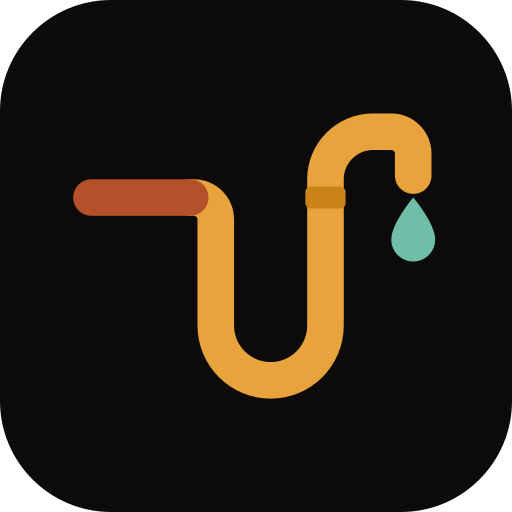
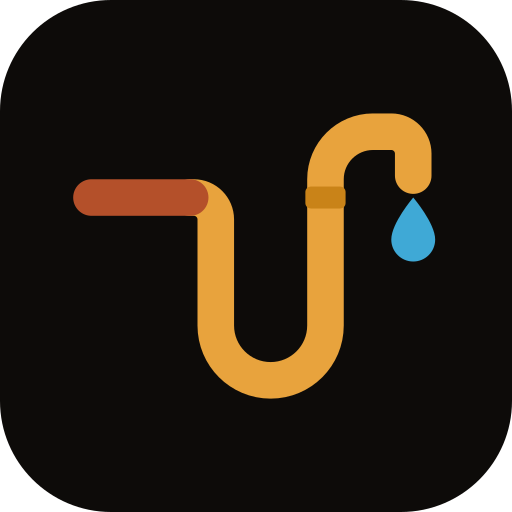
Switch the water colour to aquifer blue; remove the Why us photo
Mint teal (#6FBFA8) becomes aquifer blue (#3FA9D6) everywhere water
appears: logo drop and pipe water (nav, footer, favicon, app icons,
share image), 3D water shader, seepage, air-lift light, aquifer glow,
highlighted words and accents. Earth colours unchanged.

The rig photo in Why us is removed (it repeats in Projects).

Claude-Session: https://claude.ai/code/session_01LjB3ks2CfJEXKBvPFmPoN3

Changed region(s): [[0.75, 0.375, 0.875, 0.5312]]

diff --git a/index.html b/index.html
@@ -28,7 +28,7 @@
 :root{
   --basalt:#0D0B09; --umber:#171310; --kiln:#241C15; --strata:#3A2E22;
   --bone:#F2EDE4; --dust:#A79B8A; --amber:#E8A33D; --murram:#B4502A;
-  --teal:#6FBFA8; --strike:#EAF3EC;
+  --teal:#3FA9D6; --strike:#EAF3EC;
   --font-d:'Oswald','Arial Narrow',sans-serif;
   --font-b:'Inter',system-ui,-apple-system,'Segoe UI',sans-serif;
   --ease:cubic-bezier(0.2,0.7,0.2,1);
@@ -47,7 +47,7 @@ a{color:inherit}
 .wash.w1{background:linear-gradient(180deg,rgba(232,163,61,.20),rgba(232,163,61,0) 70%)}
 .wash.w2{background:linear-gradient(180deg,rgba(180,80,42,.16) 0%,rgba(180,80,42,0) 75%)}
 .wash.w3{background:linear-gradient(180deg,rgba(36,28,21,.55),rgba(13,11,9,0) 80%)}
-.wash.w4{background:linear-gradient(180deg,rgba(111,191,168,.14),rgba(111,191,168,0) 70%)}
+.wash.w4{background:linear-gradient(180deg,rgba(63,169,214,.14),rgba(63,169,214,0) 70%)}
 .page{position:relative;z-index:1;overflow-x:clip}
 
 /* Depth rail — desktop only */
@@ -196,7 +196,7 @@ html.reduced-motion *,html.reduced-motion *::before,html.reduced-motion *::after
 .process-step.strike .n{color:var(--teal)}
 .process-step h3{font-family:var(--font-d);font-weight:600;text-transform:uppercase;letter-spacing:.06em;font-size:1.15rem;color:var(--bone);margin-bottom:.55rem}
 .process-step .depth-tag{display:inline-block;font-family:ui-monospace,Menlo,monospace;font-size:.68rem;letter-spacing:.22em;color:var(--murram);border:1px solid var(--strata);border-radius:4px;padding:.2rem .6rem;margin-bottom:.7rem}
-.process-step.strike .depth-tag{color:var(--teal);border-color:rgba(111,191,168,.4)}
+.process-step.strike .depth-tag{color:var(--teal);border-color:rgba(63,169,214,.4)}
 .process-step p{color:var(--dust);font-size:.92rem;line-height:1.7}
 @media(min-width:900px){.process-step p{max-width:15em;margin:0 auto}}
 
@@ -255,12 +255,12 @@ html.reduced-motion *,html.reduced-motion *::before,html.reduced-motion *::after
 .form-group select option{background:var(--umber);color:var(--bone)}
 .form-group textarea{resize:vertical;min-height:110px}
 .form-group input:focus,.form-group select:focus,.form-group textarea:focus{outline:none;border-color:var(--amber);box-shadow:0 0 0 3px rgba(232,163,61,.22)}
-.btn-success{background:var(--teal)!important;color:#06231b!important;box-shadow:0 6px 26px rgba(111,191,168,.35)!important}
+.btn-success{background:var(--teal)!important;color:#06231b!important;box-shadow:0 6px 26px rgba(63,169,214,.35)!important}
 .form-note{margin-top:1rem;font-size:.85rem;color:var(--teal);min-height:1.4em}
 
 /* ============ Final CTA + footer ============ */
 .cta-band{text-align:center;overflow:hidden}
-.cta-band .glow{position:absolute;left:50%;top:50%;width:560px;height:560px;transform:translate(-50%,-50%);background:radial-gradient(circle,rgba(111,191,168,.16),transparent 65%);pointer-events:none;z-index:-1}
+.cta-band .glow{position:absolute;left:50%;top:50%;width:560px;height:560px;transform:translate(-50%,-50%);background:radial-gradient(circle,rgba(63,169,214,.16),transparent 65%);pointer-events:none;z-index:-1}
 .cta-band h2{font-family:var(--font-d);font-weight:700;text-transform:uppercase;font-size:clamp(2rem,6.5vw,3.4rem);color:var(--strike);line-height:1.1;max-width:14em;margin:0 auto}
 .cta-band p{color:var(--dust);margin:1.1rem auto 2rem;max-width:32em}
 footer{background:#0a0806;border-top:1px solid var(--strata);padding:3.5rem 0 0;color:var(--dust)}
@@ -305,7 +305,7 @@ h.classList.add('js-motion');setTimeout(function(){if(!window.__motionReady)h.cl
 .d-track div[data-s="4"]{height:200vh}
 .d-track div[data-s="8"]{height:100vh}
 #d-scene{position:absolute;inset:0;width:100%;height:100%;display:block;z-index:0}
-.d-fallback{position:absolute;inset:0;z-index:0;background:linear-gradient(180deg,#1a120b 0 30%,#4a3322 30% 33%,#9a4426 33% 48%,#6e5038 48% 62%,#2f2925 62% 82%,#38504a 82% 92%,#1d1916 92%)}
+.d-fallback{position:absolute;inset:0;z-index:0;background:linear-gradient(180deg,#1a120b 0 30%,#4a3322 30% 33%,#9a4426 33% 48%,#6e5038 48% 62%,#2f2925 62% 82%,#2E4450 82% 92%,#1d1916 92%)}
 
 .d-photo{position:absolute;left:0;right:0;top:0;height:100%;z-index:1;pointer-events:none;will-change:transform,opacity}
 .d-photo img{position:absolute;inset:0;width:100%;height:100%;max-width:none;object-fit:cover;filter:contrast(1.07) saturate(.9) brightness(.8) sepia(.08)}
@@ -338,7 +338,7 @@ h.classList.add('js-motion');setTimeout(function(){if(!window.__motionReady)h.cl
 .d-gauge{position:absolute;z-index:5;left:16px;top:calc(var(--head-h) + 12px);display:grid;grid-template-columns:auto auto;column-gap:8px;row-gap:8px;pointer-events:none;opacity:0}
 .d-readout{grid-column:1 / -1;font-family:var(--font-m);font-size:.62rem;letter-spacing:.16em;text-transform:uppercase;color:var(--dust);line-height:1.35}
 .d-readout b{display:block;font-family:var(--font-d);font-weight:600;font-size:1.7rem;letter-spacing:.03em;color:var(--amber);font-variant-numeric:tabular-nums;transition:color .4s;text-shadow:0 0 18px rgba(232,163,61,.35)}
-.d-readout b.wet{color:var(--teal);text-shadow:0 0 18px rgba(111,191,168,.4)}
+.d-readout b.wet{color:var(--teal);text-shadow:0 0 18px rgba(63,169,214,.4)}
 .d-readout span:last-child{color:var(--bone)}
 .d-col{position:relative;width:5px;height:min(34vh,300px);display:flex;flex-direction:column;outline:1px solid var(--strata);outline-offset:2px}
 .d-col span{display:block}
@@ -375,7 +375,7 @@ h.classList.add('js-motion');setTimeout(function(){if(!window.__motionReady)h.cl
 .d-tag.wet{color:var(--teal)}
 .descent h1,.descent h2{font-family:var(--font-d);text-transform:uppercase;font-weight:700;letter-spacing:.01em;text-wrap:balance;margin:0;position:relative;color:var(--bone)}
 .descent h1{font-size:clamp(2.6rem,10.5vw,4.9rem);line-height:.94;text-shadow:0 2px 30px rgba(13,11,9,.6)}
-.descent h1 .d-water{color:var(--teal);text-shadow:0 0 30px rgba(111,191,168,.35)}
+.descent h1 .d-water{color:var(--teal);text-shadow:0 0 30px rgba(63,169,214,.35)}
 .descent h2{font-size:clamp(2rem,7.5vw,2.8rem);line-height:.98}
 .d-wm{display:inline-block;overflow:hidden;vertical-align:top;padding-bottom:.08em;margin-bottom:-.08em}
 .d-wi{display:inline-block;transform:translateY(108%);transition:transform .8s var(--d-ease);transition-delay:calc(var(--i) * 55ms)}
@@ -526,7 +526,7 @@ h.classList.add('js-motion');setTimeout(function(){if(!window.__motionReady)h.cl
 .permits{display:grid;grid-template-columns:1fr 1fr;gap:10px}
 @media (min-width:860px){.permits{grid-template-columns:repeat(4,1fr);gap:14px}}
 .permit{position:relative;border:1px solid var(--strata);border-radius:4px;padding:18px 16px 16px;background:var(--umber);display:grid;gap:6px;min-width:0}
-.permit::after{content:"";position:absolute;top:12px;right:12px;width:9px;height:9px;border-radius:50%;background:var(--teal);box-shadow:0 0 0 4px rgba(111,191,168,.15)}
+.permit::after{content:"";position:absolute;top:12px;right:12px;width:9px;height:9px;border-radius:50%;background:var(--teal);box-shadow:0 0 0 4px rgba(63,169,214,.15)}
 .permit b{font-family:var(--font-d);font-weight:600;text-transform:uppercase;letter-spacing:.06em;font-size:1.05rem;color:var(--bone)}
 .permit span{font-size:.82rem;line-height:1.45;color:var(--dust)}
 .facts4{display:grid;grid-template-columns:1fr 1fr;margin:clamp(2.4rem,6vw,3.5rem) 0 0;border-top:1px solid var(--strata);border-left:1px solid var(--strata)}
@@ -564,11 +564,11 @@ h.classList.add('js-motion');setTimeout(function(){if(!window.__motionReady)h.cl
 .proj.placeholder-card .slot{position:absolute;top:12px;left:12px;font-family:var(--font-m);font-size:.58rem;letter-spacing:.18em;text-transform:uppercase;color:var(--dust);border:1px dashed #4a3a2a;padding:.3rem .45rem;border-radius:2px}
 
 /* ---------- 4. Why a borehole ---------- */
-.sx-bore{background:linear-gradient(180deg,#0D0B09 0%,#0E1513 100%)}
+.sx-bore{background:linear-gradient(180deg,#0D0B09 0%,#0C1419 100%)}
 .reasons{display:grid;gap:12px;counter-reset:r}
 @media (min-width:860px){.reasons{grid-template-columns:repeat(3,1fr);gap:18px}}
-.reason{position:relative;border:1px solid #233a33;border-radius:4px;padding:clamp(22px,4vw,30px);background:rgba(111,191,168,.035);overflow:hidden;min-width:0}
-.reason::before{counter-increment:r;content:"0" counter(r);position:absolute;right:14px;top:6px;font-family:var(--font-d);font-weight:700;font-size:4.2rem;line-height:1;color:transparent;-webkit-text-stroke:1px rgba(111,191,168,.22)}
+.reason{position:relative;border:1px solid #1f3644;border-radius:4px;padding:clamp(22px,4vw,30px);background:rgba(63,169,214,.035);overflow:hidden;min-width:0}
+.reason::before{counter-increment:r;content:"0" counter(r);position:absolute;right:14px;top:6px;font-family:var(--font-d);font-weight:700;font-size:4.2rem;line-height:1;color:transparent;-webkit-text-stroke:1px rgba(63,169,214,.22)}
 .reason svg{width:30px;height:30px;stroke:var(--teal);fill:none;stroke-width:1.6;stroke-linecap:round;stroke-linejoin:round}
 .reason h3{font-family:var(--font-d);font-weight:600;text-transform:uppercase;letter-spacing:.03em;font-size:clamp(1.25rem,4.4vw,1.5rem);color:var(--bone);margin:18px 0 8px}
 .reason p{margin:0;color:var(--dust);font-size:.95rem;line-height:1.6}
@@ -604,11 +604,11 @@ h.classList.add('js-motion');setTimeout(function(){if(!window.__motionReady)h.cl
 .field input:focus,.field select:focus,.field textarea:focus{outline:none;border-color:var(--amber);box-shadow:0 0 0 3px rgba(232,163,61,.18)}
 .field input:disabled,.field select:disabled,.field textarea:disabled{opacity:.55}
 .qf .b-amber{width:100%;padding:1.05rem}
-.qf .b-amber.is-done{background:var(--teal);box-shadow:0 0 30px rgba(111,191,168,.35)}
+.qf .b-amber.is-done{background:var(--teal);box-shadow:0 0 30px rgba(63,169,214,.35)}
 .form-note{margin:0;color:var(--teal);font-size:.92rem;min-height:1.2em}
 
 /* ---------- 6. Final CTA ---------- */
-.sx-cta{position:relative;overflow:hidden;text-align:center;padding:clamp(4.5rem,12vw,8rem) 0;background:radial-gradient(ellipse at 50% 110%,rgba(111,191,168,.16),transparent 60%),var(--basalt);border-top:1px solid var(--strata)}
+.sx-cta{position:relative;overflow:hidden;text-align:center;padding:clamp(4.5rem,12vw,8rem) 0;background:radial-gradient(ellipse at 50% 110%,rgba(63,169,214,.16),transparent 60%),var(--basalt);border-top:1px solid var(--strata)}
 .cta-mark{position:relative;display:inline-block;width:clamp(150px,34vw,210px);margin-bottom:clamp(1.4rem,4vw,2rem)}
 .cta-mark svg{display:block;width:100%;height:auto;position:relative}
 .cta-mark::before{content:"";position:absolute;right:calc(100% - 5%);top:calc(30.6% - 4.7%);height:9.4%;width:100vw;background:var(--murram);border-radius:0}
@@ -727,7 +727,7 @@ footer.site-foot{background:#090705;border-top:0;padding:0;color:var(--dust)}
 <!-- ================= Header ================= -->
 <header class="site-head" id="siteHead">
   <nav class="nav" aria-label="Main navigation">
-    <a href="#top" class="wordmark" aria-label="Deep Core Wells, home"><svg class="mark" viewBox="0 18 212 170" aria-hidden="true" focusable="false"><path d="M64 70 H66 A12 12 0 0 1 78 82 V140 A30 30 0 0 0 138 140 V60 A26 26 0 0 1 164 34 H174 A12 12 0 0 1 186 46 V58" fill="none" stroke="#E8A33D" stroke-width="16" stroke-linecap="round" stroke-linejoin="round"/><path d="M78 116 V140 A30 30 0 0 0 138 140 V60 A26 26 0 0 1 164 34 H174 A12 12 0 0 1 186 46 V52" fill="none" stroke="#6FBFA8" stroke-width="5.6" stroke-linecap="round" stroke-linejoin="round"/><path d="M72.5 115 H83.5" stroke="#F2EDE4" stroke-width="2.2" stroke-linecap="round" opacity=".9"/><path d="M10 70 H64" stroke="#B4502A" stroke-width="16" stroke-linecap="round"/><path d="M64 62 V78" stroke="#0D0B09" stroke-width="1.5" opacity=".6"/><rect x="127" y="64" width="22" height="12" rx="3" fill="#C98318"/><path d="M186 70 C186 70 174 84 174 93 a12 12 0 0 0 24 0 C198 84 186 70 186 70 Z" fill="#6FBFA8"/><circle cx="181" cy="93" r="2.6" fill="#F2EDE4" opacity=".55"/></svg><span>Deep Core Wells</span></a>
+    <a href="#top" class="wordmark" aria-label="Deep Core Wells, home"><svg class="mark" viewBox="0 18 212 170" aria-hidden="true" focusable="false"><path d="M64 70 H66 A12 12 0 0 1 78 82 V140 A30 30 0 0 0 138 140 V60 A26 26 0 0 1 164 34 H174 A12 12 0 0 1 186 46 V58" fill="none" stroke="#E8A33D" stroke-width="16" stroke-linecap="round" stroke-linejoin="round"/><path d="M78 116 V140 A30 30 0 0 0 138 140 V60 A26 26 0 0 1 164 34 H174 A12 12 0 0 1 186 46 V52" fill="none" stroke="#3FA9D6" stroke-width="5.6" stroke-linecap="round" stroke-linejoin="round"/><path d="M72.5 115 H83.5" stroke="#F2EDE4" stroke-width="2.2" stroke-linecap="round" opacity=".9"/><path d="M10 70 H64" stroke="#B4502A" stroke-width="16" stroke-linecap="round"/><path d="M64 62 V78" stroke="#0D0B09" stroke-width="1.5" opacity=".6"/><rect x="127" y="64" width="22" height="12" rx="3" fill="#C98318"/><path d="M186 70 C186 70 174 84 174 93 a12 12 0 0 0 24 0 C198 84 186 70 186 70 Z" fill="#3FA9D6"/><circle cx="181" cy="93" r="2.6" fill="#F2EDE4" opacity=".55"/></svg><span>Deep Core Wells</span></a>
     <button class="nav-toggle" id="navToggle" aria-label="Open menu" aria-expanded="false"><span></span><span></span><span></span></button>
     <ul class="nav-links" id="navLinks">
       <li><a href="#services">Services</a></li>
@@ -853,8 +853,8 @@ footer.site-foot{background:#090705;border-top:0;padding:0;color:var(--dust)}
       <li class="log-row" style="--band:#B4502A"><div class="log-top"><span class="log-no">02</span></div><h3>Pump installation</h3><p>Sized to your borehole's yield and set at the right depth.</p></li>
       <li class="log-row" style="--band:#8A6A4E"><div class="log-top"><span class="log-no">03</span></div><h3>Water treatment</h3><p>Testing and treatment for safe drinking water.</p></li>
       <li class="log-row" style="--band:#5C524B"><div class="log-top"><span class="log-no">04</span></div><h3>Borehole testing</h3><p>Yield and water-quality tests, with a written report.</p></li>
-      <li class="log-row" style="--band:#3E6B5F"><div class="log-top"><span class="log-no">05</span></div><h3>Maintenance &amp; repair</h3><p>Servicing to keep your borehole and pump working.</p></li>
-      <li class="log-row" style="--band:#6FBFA8"><div class="log-top"><span class="log-no">06</span></div><h3>Emergency call-outs</h3><p>Available 24 hours a day, 7 days a week.</p></li>
+      <li class="log-row" style="--band:#2A5F78"><div class="log-top"><span class="log-no">05</span></div><h3>Maintenance &amp; repair</h3><p>Servicing to keep your borehole and pump working.</p></li>
+      <li class="log-row" style="--band:#3FA9D6"><div class="log-top"><span class="log-no">06</span></div><h3>Emergency call-outs</h3><p>Available 24 hours a day, 7 days a week.</p></li>
     </ol>
   </div>
 </section>
@@ -862,9 +862,7 @@ footer.site-foot{background:#090705;border-top:0;padding:0;color:var(--dust)}
 <!-- ================= Why us ================= -->
 <section class="sx sx-why" id="why-us">
   <div class="wrap why2">
-    <figure class="why2-photo rv">
-      <img src="images/mutwot-drilling-rig.jpg" alt="Deep Core Wells drilling rig on site" loading="lazy" decoding="async">
-    </figure>
+    
     <div>
       <header class="sx-head rv">
         <p class="sx-eye">Why us</p>
@@ -903,7 +901,7 @@ footer.site-foot{background:#090705;border-top:0;padding:0;color:var(--dust)}
 <footer class="site-foot" id="contact">
   <div class="f-ground" aria-hidden="true"></div>
   <div class="wrap ft">
-    <div class="ft-brand"><svg class="mark" viewBox="0 18 212 170" aria-hidden="true" focusable="false"><path d="M64 70 H66 A12 12 0 0 1 78 82 V140 A30 30 0 0 0 138 140 V60 A26 26 0 0 1 164 34 H174 A12 12 0 0 1 186 46 V58" fill="none" stroke="#E8A33D" stroke-width="16" stroke-linecap="round" stroke-linejoin="round"/><path d="M78 116 V140 A30 30 0 0 0 138 140 V60 A26 26 0 0 1 164 34 H174 A12 12 0 0 1 186 46 V52" fill="none" stroke="#6FBFA8" stroke-width="5.6" stroke-linecap="round" stroke-linejoin="round"/><path d="M72.5 115 H83.5" stroke="#F2EDE4" stroke-width="2.2" stroke-linecap="round" opacity=".9"/><path d="M10 70 H64" stroke="#B4502A" stroke-width="16" stroke-linecap="round"/><path d="M64 62 V78" stroke="#0D0B09" stroke-width="1.5" opacity=".6"/><rect x="127" y="64" width="22" height="12" rx="3" fill="#C98318"/><path d="M186 70 C186 70 174 84 174 93 a12 12 0 0 0 24 0 C198 84 186 70 186 70 Z" fill="#6FBFA8"/><circle cx="181" cy="93" r="2.6" fill="#F2EDE4" opacity=".55"/></svg><div><b>Deep Core Wells</b><span>From the ground to your tap</span></div></div>
+    <div class="ft-brand"><svg class="mark" viewBox="0 18 212 170" aria-hidden="true" focusable="false"><path d="M64 70 H66 A12 12 0 0 1 78 82 V140 A30 30 0 0 0 138 140 V60 A26 26 0 0 1 164 34 H174 A12 12 0 0 1 186 46 V58" fill="none" stroke="#E8A33D" stroke-width="16" stroke-linecap="round" stroke-linejoin="round"/><path d="M78 116 V140 A30 30 0 0 0 138 140 V60 A26 26 0 0 1 164 34 H174 A12 12 0 0 1 186 46 V52" fill="none" stroke="#3FA9D6" stroke-width="5.6" stroke-linecap="round" stroke-linejoin="round"/><path d="M72.5 115 H83.5" stroke="#F2EDE4" stroke-width="2.2" stroke-linecap="round" opacity=".9"/><path d="M10 70 H64" stroke="#B4502A" stroke-width="16" stroke-linecap="round"/><path d="M64 62 V78" stroke="#0D0B09" stroke-width="1.5" opacity=".6"/><rect x="127" y="64" width="22" height="12" rx="3" fill="#C98318"/><path d="M186 70 C186 70 174 84 174 93 a12 12 0 0 0 24 0 C198 84 186 70 186 70 Z" fill="#3FA9D6"/><circle cx="181" cy="93" r="2.6" fill="#F2EDE4" opacity=".55"/></svg><div><b>Deep Core Wells</b><span>From the ground to your tap</span></div></div>
     <div class="ft-contact"><a class="f-call" href="tel:+254706716310">0706 716 310</a><a class="ft-mail" href="mailto:info@deepcorewells.com">info@deepcorewells.com</a></div>
   </div>
   <div class="wrap ft-meta">
@@ -1030,7 +1028,7 @@ const LAYERS=[
   {name:'Murram',top:4,bot:28,col:'#9a4426',rock:'#7d3a22'},
   {name:'Weathered rock',top:28,bot:62,col:'#6e5038',rock:'#8a6a4e'},
   {name:'Basalt',top:62,bot:118,col:'#2f2925',rock:'#45403b'},
-  {name:'Aquifer',top:118,bot:138,col:'#33463f',rock:'#7d8a82'},
+  {name:'Aquifer',top:118,bot:138,col:'#2E4450',rock:'#7f8c96'},
   {name:'Bedrock',top:138,bot:150,col:'#1d1916',rock:'#2c2723'}
 ];
 const MAXD=150,STRIKE=120,HOLE=135,PUMP=125,REST=35,PUMPLVL=48;
@@ -1206,7 +1204,7 @@ scene.fog=new THREE.Fog(0x120d09,170,720);
 const camera=new THREE.PerspectiveCamera(36,1,0.3,1400);
 scene.add(new THREE.HemisphereLight(0x7d6a55,0x0d0b09,0.42));
 const key=new THREE.DirectionalLight(0xffd6a0,0.7);key.position.set(110,25,70);scene.add(key);
-const rim=new THREE.DirectionalLight(0x6fbfa8,0.22);rim.position.set(-90,-30,50);scene.add(rim);
+const rim=new THREE.DirectionalLight(0x3FA9D6,0.22);rim.position.set(-90,-30,50);scene.add(rim);
 const sunLight=new THREE.DirectionalLight(0xffe2b0,0);sunLight.position.set(-60,90,40);scene.add(sunLight);
 
 /* textures */
@@ -1333,7 +1331,7 @@ LAYERS.forEach((L,i)=>{
   const h=L.bot-L.top,yc=-(L.top+h/2);
   const mk=(rx)=>{const tx=grainTex(L.col,1000+i*77,Math.round(h*1.6)+8,rx,Math.max(1,h/12));
     const m=new THREE.MeshStandardMaterial({map:tx,bumpMap:tx,bumpScale:.55,roughness:.95,metalness:0});
-    if(L.name==='Aquifer'){m.emissive=new THREE.Color(0x6FBFA8);m.emissiveIntensity=0;aquiferMats.push(m);}return m;};
+    if(L.name==='Aquifer'){m.emissive=new THREE.Color(0x3FA9D6);m.emissiveIntensity=0;aquiferMats.push(m);}return m;};
   const side=mk(W/2/28),back=mk(4);
   const bk=new THREE.Mesh(new THREE.BoxGeometry(W,h,D-RH),back);bk.position.set(0,yc,(-D/2+FZ-RH)/2);scene.add(bk);
   const sw=W/2-RH;
@@ -1341,7 +1339,7 @@ LAYERS.forEach((L,i)=>{
   const rgt=new THREE.Mesh(new THREE.BoxGeometry(sw,h,RH),side);rgt.position.set(RH+sw/2,yc,FZ-RH/2);scene.add(rgt);
   const plug=new THREE.Mesh(new THREE.BoxGeometry(RH*2,1,RH),mk(.1));plug.position.z=FZ-RH/2;plug.userData=L;scene.add(plug);plugs.push(plug);
   if(i>0){const seam=new THREE.Mesh(new THREE.BoxGeometry(W,.22,.12),new THREE.MeshBasicMaterial({color:0x0a0806}));seam.position.set(0,-L.top,FZ+.02);scene.add(seam);}
-  const sp=labelSprite(L.name,`${L.top}–${L.bot} m`,L.name==='Aquifer'?'#6FBFA8':'#F2EDE4');
+  const sp=labelSprite(L.name,`${L.top}–${L.bot} m`,L.name==='Aquifer'?'#3FA9D6':'#F2EDE4');
   sp.position.set(16,-(L.top+Math.min(h/2,5)),FZ+1.5);scene.add(sp);layerLabels.push(sp);
 });
 (function(){
@@ -1370,13 +1368,13 @@ holeWall.position.set(0,0,FZ);scene.add(holeWall);
 const casing=new THREE.Mesh(halfCyl(RH*.9),new THREE.MeshStandardMaterial({color:0x8d8579,roughness:.38,metalness:.75,side:THREE.DoubleSide}));
 casing.position.set(0,0,FZ);scene.add(casing);
 const sTex=slotTex();
-const screen=new THREE.Mesh(halfCyl(RH*.9),new THREE.MeshStandardMaterial({map:sTex,roughness:.45,metalness:.6,side:THREE.DoubleSide,emissive:0x0e2a24}));
+const screen=new THREE.Mesh(halfCyl(RH*.9),new THREE.MeshStandardMaterial({map:sTex,roughness:.45,metalness:.6,side:THREE.DoubleSide,emissive:0x0b2533}));
 screen.position.set(0,0,FZ);scene.add(screen);
 const waterMat=new THREE.ShaderMaterial({transparent:true,depthWrite:false,uniforms:{time:{value:0},glow:{value:0}},
   vertexShader:'varying vec3 vW;void main(){vec4 w=modelMatrix*vec4(position,1.0);vW=w.xyz;gl_Position=projectionMatrix*viewMatrix*w;}',
   fragmentShader:`varying vec3 vW;uniform float time;uniform float glow;
   void main(){float a=sin(vW.y*1.3+time*2.6+sin(vW.x*3.0+time))*.5+.5;float b=sin(vW.y*.45-time*1.4+vW.x*5.0)*.5+.5;
-  float n=a*b;vec3 deep=vec3(.05,.22,.2);vec3 lite=vec3(.5,.82,.72);vec3 c=mix(deep,lite,n*.55+.12)+glow*vec3(.25,.4,.36);
+  float n=a*b;vec3 deep=vec3(.04,.17,.27);vec3 lite=vec3(.55,.8,.95);vec3 c=mix(deep,lite,n*.55+.12)+glow*vec3(.25,.38,.48);
   gl_FragColor=vec4(c,.86);}`});
 const waterBack=new THREE.Mesh(halfCyl(RH*.86),waterMat);waterBack.position.z=FZ;scene.add(waterBack);
 const waterFace=new THREE.Mesh(new THREE.PlaneGeometry(RH*1.72,1),waterMat);waterFace.position.z=FZ+.02;scene.add(waterFace);
@@ -1385,7 +1383,7 @@ const meniscus=new THREE.Mesh(new THREE.PlaneGeometry(RH*1.8,.28),new THREE.Mesh
 /* water-level line across the face: flat at rest, dips into a cone while pumping */
 const LN=161;
 const lvlGeo=new THREE.BufferGeometry();lvlGeo.setAttribute('position',new THREE.BufferAttribute(new Float32Array(LN*3),3));
-const lvlMat=new THREE.LineDashedMaterial({color:0x6FBFA8,dashSize:1.2,gapSize:.8,transparent:true,opacity:0});
+const lvlMat=new THREE.LineDashedMaterial({color:0x3FA9D6,dashSize:1.2,gapSize:.8,transparent:true,opacity:0});
 const lvl=new THREE.Line(lvlGeo,lvlMat);lvl.frustumCulled=false;scene.add(lvl);
 function updateLevel(draw,op){
   const p=lvlGeo.attributes.position.array;
@@ -1409,7 +1407,7 @@ for(let k=0;k<3;k++){
 }
 bit.position.z=FZ-.15;scene.add(bit);
 const bitLight=new THREE.PointLight(0xE8A33D,0,30,1.6);scene.add(bitLight);
-const strikeLight=new THREE.PointLight(0x6FBFA8,0,70,1.3);scene.add(strikeLight);
+const strikeLight=new THREE.PointLight(0x3FA9D6,0,70,1.3);scene.add(strikeLight);
 
 /* rig: green truck-mounted rig like the one at Mutwot */
 const rig=new THREE.Group();scene.add(rig);
@@ -1476,7 +1474,7 @@ const sweep=new THREE.Mesh(new THREE.PlaneGeometry(150,5),sweepMat);sweep.positi
 /* air-lift: muddy pool + shock ring */
 const pool=new THREE.Mesh(new THREE.CircleGeometry(1,40,0,Math.PI),new THREE.MeshStandardMaterial({color:0x6b6458,roughness:.08,metalness:.5,transparent:true,opacity:.85}));
 pool.rotation.x=-Math.PI/2;pool.position.set(0,.12,FZ);scene.add(pool);
-const ring=new THREE.Mesh(new THREE.TorusGeometry(1,.06,6,64),new THREE.MeshBasicMaterial({color:0xBFEBDD,transparent:true,blending:THREE.AdditiveBlending,depthWrite:false}));
+const ring=new THREE.Mesh(new THREE.TorusGeometry(1,.06,6,64),new THREE.MeshBasicMaterial({color:0xBFE6F5,transparent:true,blending:THREE.AdditiveBlending,depthWrite:false}));
 ring.rotation.x=-Math.PI/2;ring.position.set(0,.5,FZ);scene.add(ring);
 const ring2=ring.clone();ring2.material=ring.material.clone();scene.add(ring2);
 /* air-lift jet: a solid, churning column of water */
@@ -1530,8 +1528,8 @@ const geyser=particles(reduce?600:(isSmall?2600:4200),0xE6F4EE,.95,true,.95);
 const sheet=particles(reduce?300:(isSmall?1400:2200),0xCFD6CC,.7,true,.8);
 const mist=particles(isSmall?420:700,0xC9CFC4,9,false,.12);
 const bubbles=particles(isSmall?500:800,0xEAF3EC,.32,true,.9);
-const seep=particles(isSmall?420:700,0x8fe0c8,.38,true,.9);
-const tapStream=particles(300,0x9fdccb,.36,true,.9);
+const seep=particles(isSmall?420:700,0x8fd3f0,.38,true,.9);
+const tapStream=particles(300,0x9fd2ea,.36,true,.9);
 const motes=particles(isSmall?140:240,0xffcf8a,.22,true,.7);
 for(let i=0;i<motes.n;i++){const j=i*3;motes.pos[j]=Rn()*50;motes.pos[j+1]=Math.random()*26;motes.pos[j+2]=FZ-Math.random()*30;motes.life[i]=1;}
 

diff --git a/js/motion.js b/js/motion.js
@@ -479,7 +479,7 @@
         p.vy += 0.22; p.x += p.vx; p.y += p.vy;
         var fade = Math.max(0, 1 - t / 1.4);
         ctx.globalAlpha = p.a * fade;
-        ctx.fillStyle = p.teal ? 'rgb(111,191,168)' : 'rgb(234,243,236)';
+        ctx.fillStyle = p.teal ? 'rgb(63,169,214)' : 'rgb(234,243,236)';
         ctx.beginPath(); ctx.arc(p.x, p.y, p.r, 0, 6.2832); ctx.fill();
       }
       ctx.globalAlpha = 1;
